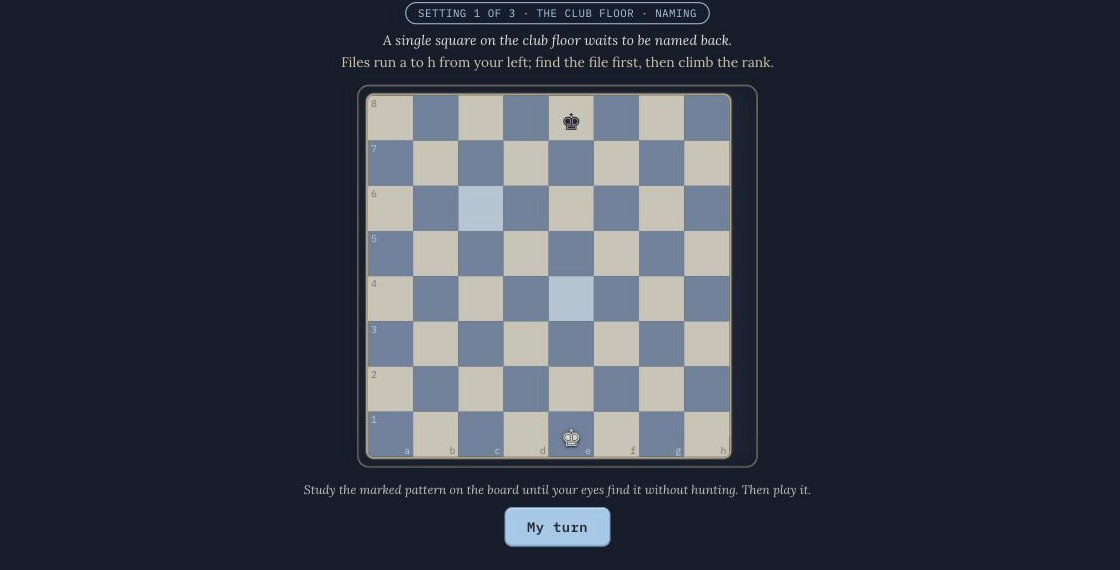
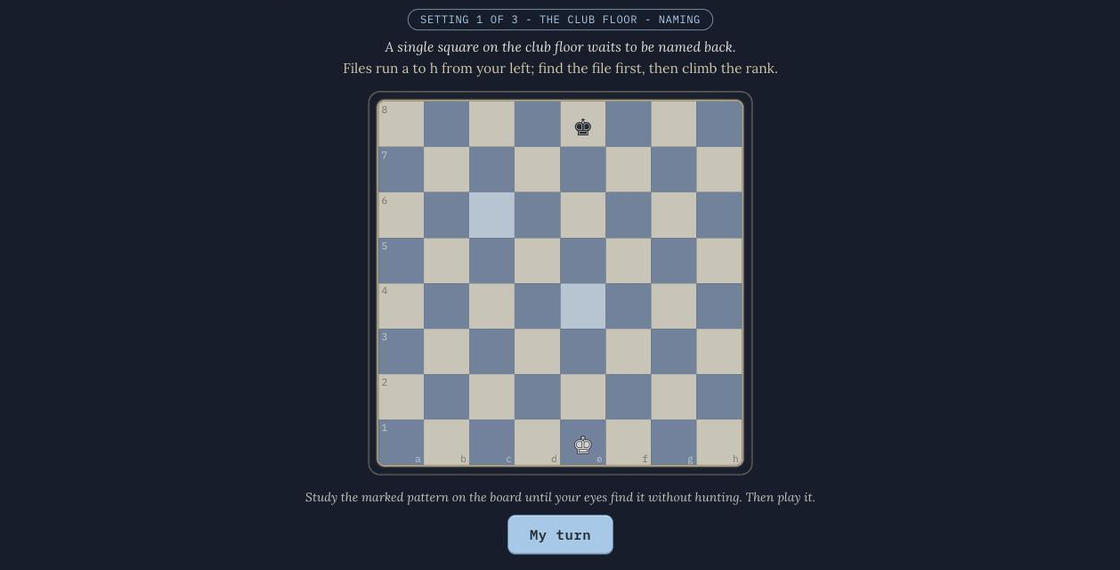
Centre the board inside its frame, and retake the screenshot
The frame was width c*8+22 with 8px padding, but the grid inside renders
c*8+4 once its own 2px border counts. Content-box, no auto margin, so the
grid sat flush left and all 18 leftover pixels piled up on the right. The
frame is now exactly as wide as the grid: 9px on all four sides.

The screenshot also predated this week, so it still showed the middle-dot
separators and the white pieces before they had an outline.

Changed region(s): [[0.25, 0.0, 0.7188, 0.9842]]

diff --git a/src/Tempo.jsx b/src/Tempo.jsx
@@ -1438,7 +1438,9 @@ function Board({ board, cell, onSquare, marks, glow, wrong, selected, dots, last
   }
   return (
     <div style={{
-      position: "relative", width: c * 8 + 22, margin: "0 auto", padding: 8,
+      /* the grid renders c*8 plus its own 2px border each side, so the frame
+         has to be exactly that wide for the padding to sit even */
+      position: "relative", width: c * 8 + 4, margin: "0 auto", padding: 8,
       background: T.duskUp,
       borderRadius: 12, border: "1px solid " + T.beigeLine,
       boxShadow: "inset 0 0 0 1px " + T.beigeEdge + ", inset 0 0 24px " + T.wellDeep
